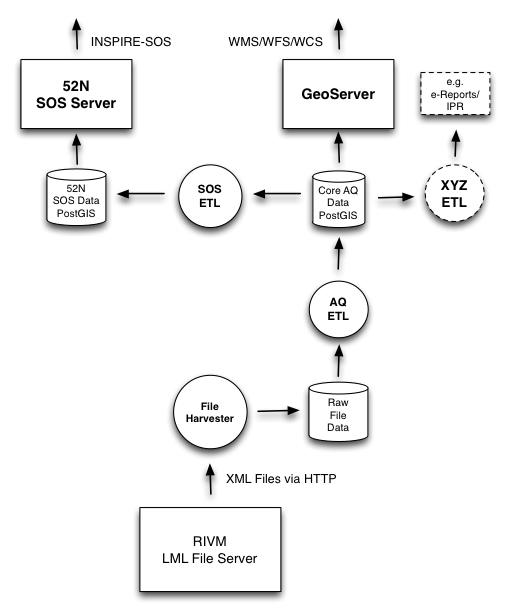
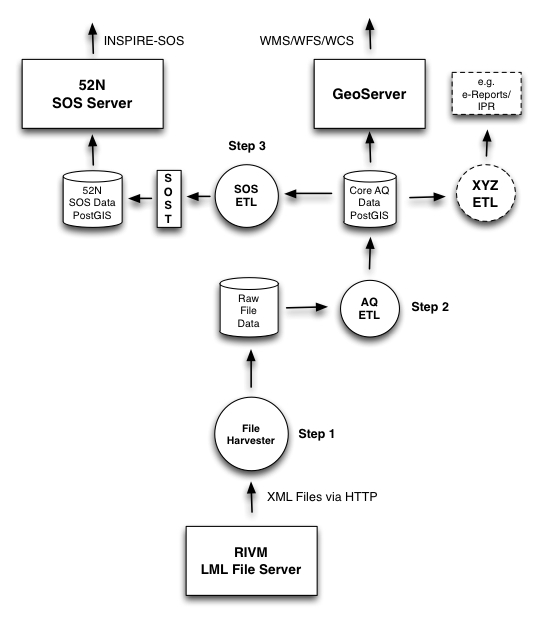
documentation expand arch

Changed region(s): [[0.0294, 0.0308, 0.9687, 0.987], [0.3523, 0.6169, 0.3816, 0.6477]]

diff --git a/docs/data.rst b/docs/data.rst
@@ -20,38 +20,49 @@ Figure 1 sketches the overall SOSPilot architecture with emphasis on the flow of
 Circles depict harvesting/ETL processes. Server-instances are in rectangles. Datastores
 the "DB"-icons.
 
-.. figure:: _static/sospilot-arch1.jpg
+.. figure:: _static/sospilot-arch0.jpg
    :align: center
 
    *Figure 1 - Overall Architecture*
 
+The main challenge/flow of data is from raw XML files with Air Quality data provided by the RIVM LML server.
+This server provides a directory of XML files with hourly measurements of the past month.
+The big circle "ETL" embeds the data transformation processes and storage that is required to
+deliver OGC services for WMS, WFS and SOS.
 
 ETL Design
 ==========
 
-Three main ETL steps with three datastores:
+In this section the ETL is elaborated in more detail as depicted in the figure below.
 
-#. Harvest source data from RIVM e.g. from  http://lml.rivm.nl/xml and store locally
-#. Transform local source data to intermediate “core” AQDB
-#. “Core DB” naar 52N SOS DB, evt later naar IPR/INSPIRE XML
+.. figure:: _static/sospilot-arch1.jpg
+   :align: center
 
-The dataflow is as follows:
+   *Figure 2 - Overall Architecture with ETL Steps*
+
+The ETL design comprises three main processing steps and three datastores. The three ETL Steps are:
+
+#. File Harvester: fetch source data from RIVM e.g. from  http://lml.rivm.nl/xml and store locally
+#. AQ ETL: transform this local source data to intermediate "Core AQ Data" in PostGIS
+#. SOS ETL: transform and publish "Core AQ Data" to the 52N SOS DB via SOS-Transactions (SOS-T)
+
+The detailed dataflow from source to destination is as follows:
 
 #. The File Harvester fetches XML files with AQ/LML measurements from the RIVM server
-#. The File Harvester puts these files as XML blobs 1-1 in a database
+#. The File Harvester puts these files as XML blobs 1-1 in a Postgres/PostGIS database
 #. The AQ ETL process reads these file blobs and transforms these to the Core AQ DB (Raw Measurements)
-#. The Core AQ DB contains measurements + stations in regular tables 1-1 with original data, adding also a Time column
+#. The Core AQ DB contains measurements + stations in regular tables 1-1 with original data, including a Time column
 #. The Core AQ DB can be used for OWS (WMS/WFS) services via GeoServer (possibly using VIEW by Measurements/Stations JOIN)
 #. The SOS ETL process transforms core AQ data to SOS Observations and publishes Observations using SOS-T InsertObservation
 #. These three processes run continuously (via cron)
 #. Each process always knows its progress and where it needs to resume, even after it has been stopped (by storing a 'timestamp' in Progress table)
-
 
 These three ETL processes manage their ``last sync-time`` within the Database.
 
 Advantages of this approach:
 
 * backups of source data possible
+* incrementally build up of history past the last month
 * in case of (design) errors we can always reset the 'progress timestamp(s)' and restart anew
 * simpler ETL scripts than “all-in-one", e.g. from “Core AQ DB” to "52N SOS DB" may even be in plain SQL
 * migration with changed in 52N SOS DB schema simpler
